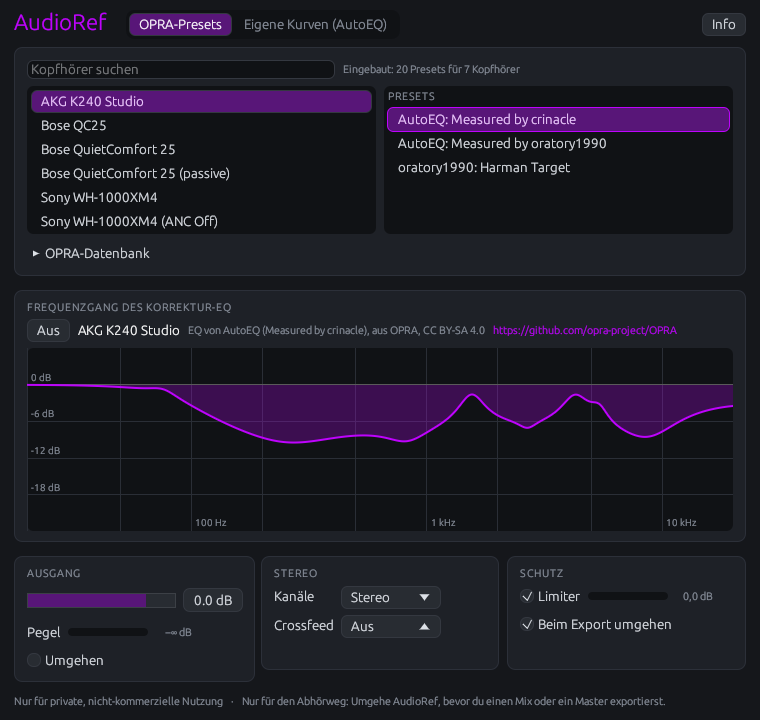
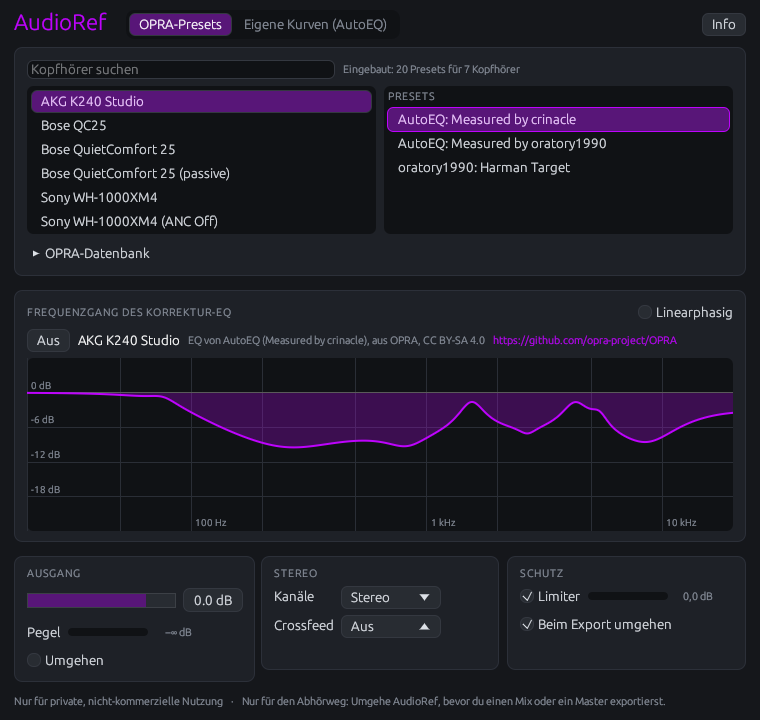
Add a linear-phase mode that reports its latency
A setting, off by default, saved with the project: the background then
makes each correction, a preset or a design, a linear-phase FIR of the
same magnitude. The engine delays every path by the latency, the dry
signal, the flat path and each correction by the latency less its own,
so fades, the bypass and corrections of either phase stay in line. The
plugin reports the latency to the host. The window has the switch at
the top right of the correction's card, with the latency in ms.

Claude-Session: https://claude.ai/code/session_01LTkkJNM9YeBc23r1HKb9qa

diff --git a/crates/audioref-core/src/i18n.rs b/crates/audioref-core/src/i18n.rs
@@ -533,7 +533,7 @@ impl Hint {
                 "Keeps the output at or below −0.3 dBFS, without latency. Its bar shows by how much it lowers the signal: it only moves when the level would go above."
             }
             Self::LinearPhase => {
-                "Corrects without shifting the phase, but delays the sound by about 43 ms. Your DAW makes up for it in playback, not while you monitor a live input. Off: no latency, with the small phase shifts of an analog EQ."
+                "Corrects without shifting the phase, but delays the sound by 43 to 46 ms, depending on the sample rate. Your DAW makes up for it in playback, not while you monitor a live input. Off: no latency, with the small phase shifts of an analog EQ."
             }
             Self::LowerOutput => "Lower the output level",
             Self::MetersOn => {
@@ -602,7 +602,7 @@ impl Hint {
                 "Hält den Ausgang bei höchstens −0,3 dBFS, ohne Latenz. Sein Balken zeigt, um wie viel er das Signal absenkt: Er bewegt sich nur, wenn der Pegel darüber ginge."
             }
             Self::LinearPhase => {
-                "Korrigiert, ohne die Phase zu verschieben, verzögert den Klang aber um etwa 43 ms. Deine DAW gleicht das bei der Wiedergabe aus, nicht beim Abhören eines Live-Eingangs. Aus: keine Latenz, mit den kleinen Phasenverschiebungen eines analogen EQ."
+                "Korrigiert, ohne die Phase zu verschieben, verzögert den Klang aber um 43 bis 46 ms, je nach Abtastrate. Deine DAW gleicht das bei der Wiedergabe aus, nicht beim Abhören eines Live-Eingangs. Aus: keine Latenz, mit den kleinen Phasenverschiebungen eines analogen EQ."
             }
             Self::LowerOutput => "Senke den Ausgang",
             Self::MetersOn => {

diff --git a/crates/audioref-core/src/fir.rs b/crates/audioref-core/src/fir.rs
@@ -10,8 +10,8 @@
 //! [`minimum_phase`] allocates and takes a few milliseconds, so it runs in the background.
 //!
 //! [`linear_phase`] makes the linear-phase filter of any response instead: symmetric around its
-//! middle, so it shifts no phase and delays every frequency by the same [`latency`], about 43 ms
-//! at every sample rate, which the plugin reports to the host.
+//! middle, so it shifts no phase and delays every frequency by the same [`latency`], 43 to 46 ms
+//! depending on the sample rate, which the plugin reports to the host.
 //!
 //! ```
 //! use audioref_core::design::Correction;
@@ -53,7 +53,8 @@ pub fn taps(sample_rate: f64) -> usize {
 }
 
 /// The delay of a linear-phase filter at a sample rate in Hz, in samples: the middle of its
-/// [`taps`], of which it uses all but the last, so it is symmetric around one tap. About 43 ms.
+/// [`taps`], of which it uses all but the last, so it is symmetric around one tap: 43 ms at 48, 96 and 192 kHz, 46 ms at 44.1, 88.2 and
+/// 176.4 kHz.
 #[must_use]
 pub fn latency(sample_rate: f64) -> usize {
     taps(sample_rate) / 2 - 1

diff --git a/docs/ARCHITECTURE.md b/docs/ARCHITECTURE.md
@@ -6,7 +6,7 @@ How AudioRef is built inside: its crates, its threads and the path of the signal
 
 | Crate | Holds | Depends on |
 |---|---|---|
-| `crates/audioref-core` | The logic as plain Rust: the texts (`i18n`), the saved correction (`state`), the signal processing (`engine`, `gain`, the channels and the crossfeed in `stereo`, the `limiter`, the filters in `biquad`, `cascade` and `convolver`, one of them as a `filter`), parametric EQs with the ranges of their values (`eq`), OPRA's database (`opra`) and the presets built in from it (`bundled`), AutoEQ's curves (`autoeq`) and the addresses and name index of its files (`profiles`), the design of a correction from them (`design`) and its minimum-phase filter (`fir`), and what the about window lists of the build (`about`) | No crate with plugin APIs, GUI or I/O; `make lint` checks it |
+| `crates/audioref-core` | The logic as plain Rust: the texts (`i18n`), the saved correction (`state`), the signal processing (`engine`, `gain`, the channels and the crossfeed in `stereo`, the `limiter`, the filters in `biquad`, `cascade` and `convolver`, one of them as a `filter`), parametric EQs with the ranges of their values (`eq`), OPRA's database (`opra`) and the presets built in from it (`bundled`), AutoEQ's curves (`autoeq`) and the addresses and name index of its files (`profiles`), the design of a correction from them (`design`) and its minimum-phase or linear-phase filter (`fir`), the delay lines that keep the paths in line with it (`delay`), and what the about window lists of the build (`about`) | No crate with plugin APIs, GUI or I/O; `make lint` checks it |
 | `crates/audioref` | The plugin: nih-plug, the parameters, the language of the system, the window (`editor`, with egui), reading OPRA's file and designing the corrections in the background (`background`), the saved state, and the about window (`about`, with `build.rs`) | `audioref-core`, nih-plug, nih_plug_egui, rtrb, sys-locale; `audioref-core` for `build.rs` too |
 | `xtask` | The bundler, `cargo xtask bundle audioref --release`, and `cargo xtask fetch-profiles`, which downloads headphone data with curl into a folder outside the repository, see [Fetching the files](../README.md#fetching-the-files) | nih-plug's xtask, `audioref-core` |
 | `fuzz` | The fuzz targets, a workspace of its own, see [fuzz/README.md](../fuzz/README.md) | `audioref-core`, libfuzzer-sys |
@@ -34,7 +34,7 @@ The core can be tested without a host, to 100 % of its lines and functions. The 
 
 ## The signal
 
-Stereo in, stereo out, with a latency of 0 samples. In this order, the parts not built yet marked *planned*:
+Stereo in, stereo out, with a latency of 0 samples, or with linear phase that of the linear-phase filter, see [Linear phase](#linear-phase). In this order, the parts not built yet marked *planned*:
 
 1. The channels as they are, in mono (both at half the level in both ears) or swapped, and the crossfeed, off or in three strengths (`audioref_core::stereo`). The crossfeed follows Bauer's idea, as bs2b does, in a form that leaves the middle alone: a first-order lowpass at 700 Hz of the difference of the channels, taken from the left and added to the right, `L' = L − g·LP(L − R)`, `R' = R + g·LP(L − R)`. What both channels share passes unchanged; below the lowpass each ear hears the other channel 9.5, 6 or 4.5 dB below its own (Jan Meier's, Chu Moy's and bs2b's levels), above it less and less. The lowpass gives the crossfed part a delay of about 0.2 ms, near the time sound takes around the head. As the correction is the same in both channels, it doesn't matter whether this stage comes before or after it. A change of the routing or the strength fades over 20 ms.
 2. Automatic headroom: the overall gain of the correction is lowered by its largest boost between 20 Hz and 20 kHz, on AutoEQ's grid, so it boosts nothing (`audioref_core::cascade`). Most of OPRA's presets bring enough of their own; the most any needs is 5.4 dB.
@@ -43,6 +43,12 @@ Stereo in, stereo out, with a latency of 0 samples. In this order, the parts not
 4. The output level and the bypass, both faded over 20 ms (`audioref_core::engine`), the length adapted to the sample rate.
 5. The limiter (`audioref_core::limiter`), on by default: both channels together stay at or below −0.3 dBFS, the peak of their samples. It has no lookahead, so no latency: when a sample would go above the ceiling, the gain drops at once to just what keeps it there, and comes back with a time constant of 100 ms. Off, it only lets the gain come back, so turning it off doesn't click. The bypass fades to the unprocessed input, around the limiter too.
    The audio thread notes the most it lowered the signal in each block in an atomic of `Shared`, keeping the largest until the window takes it, so no lock is needed. In the same way it notes the peak of the output's samples, after the limiter (`Engine::take_peak`). The window draws itself 30 times a second, holds both values and lets the reduction fall by 10 dB and the level by 20 dB per second. A click on either bar turns both displays off, for slow graphics (`meters`, saved with the project): the window then takes the values without showing them and is only drawn again when egui needs it, e.g. for the pointer.
+
+## Linear phase
+
+With the setting `linear-phase` (`audioref_core::filter::Phase`), the background makes every correction a linear-phase FIR instead (`Filter::of_eq`, `Filter::of_correction`): for a preset of the cascade's response, so the level at each frequency is that of the biquads, for a design of the correction lowered by its headroom. `audioref_core::fir::linear_phase` samples the response on a grid 8 times as fine as the filter, transforms its magnitude back without phase, which gives the zero-phase impulse response, centred on 0, and delays it by its latency, half the taps less one (2047 samples at 48 kHz, 43 ms at 48, 96 and 192 kHz and 46 ms at 44.1, 88.2 and 176.4 kHz), faded out over the outer eighths of both halves. It has as many taps as the minimum-phase filter and runs in the same convolver, so it costs as much; it follows the correction within 0.5 dB from 30 Hz.
+
+The engine delays every path by the latency (`Engine::set_latency`, `audioref_core::delay`): the unchanged signal of the bypass, the signal without a correction, and each correction by the latency less its own. So the fades between corrections, the bypass, and a minimum-phase correction still running while the linear-phase one is designed, all stay in line. The plugin sets the latency in `initialize` and, when the setting changes, at the start of the next block, and reports it to the host (`set_latency_samples`), which makes up for it in playback; the window designs the correction again, in the new phase. Live input is heard late by as much.
 
 ## Headphone data
 
@@ -81,7 +87,7 @@ Hosts that export in real time don't say so, which is why the window also shows 
 - **OPRA presets:** the search for headphones, how many presets the list holds and from where, the headphones and the presets of the chosen ones, and below them OPRA's file in a section that folds away, open while a path is set or a file failed to load. When the window opens, it chooses the headphones of the saved preset again (`Database::product_of`), and searches for their name if the list without a search wouldn't show them.
 - **Own curves (AutoEQ):** the files of a measurement and a target, each read in the background, with its name and number of points or why it can't be used beside it, and the button that makes them the correction.
 
-Below them the current correction: for a preset its author ("EQ by …, from OPRA, CC BY-SA 4.0", and a link to OPRA's repository, as OPRA asks), for a design the names of the measurement and the target and the sliders of the tilt, the bass and the limit for boosts; then the curve from 20 Hz to 20 kHz, taking the height left, with a grid at 2, 5 and 10 times each decade and every 6 dB, the area to 0 dB filled, the headroom beside the label of 0 dB, and under the pointer the level at the nearest frequency (`Message::CurvePoint`); at the bottom the parameters in three cards side by side, output, stereo and protection (the output level, the bypasses, and lists for the channels and the crossfeed, whose names the host shows too, the output's peak level with its bar from −60 to 0 dBFS, the limiter with its bar from 0 to 12 dB), and the notices. The curve follows a slider at once, designed in the window; the filter is designed in the background once the slider is let go, as that takes up to 10 ms. Every control has a hint, shown when the pointer rests on it, and where the window waits for something it says what to do next: to pick headphones, to load both curves before using them, or to lower the output level when the limiter lowers the signal by 3 dB or more (`audioref_core::i18n::Hint`). The window only reads and shows; the search, the texts and the curve's values come from the core.
+At the top right of the correction's card, the switch **Linear phase**, with the latency while it is on, see [Linear phase](#linear-phase). Below the tabs the current correction: for a preset its author ("EQ by …, from OPRA, CC BY-SA 4.0", and a link to OPRA's repository, as OPRA asks), for a design the names of the measurement and the target and the sliders of the tilt, the bass and the limit for boosts; then the curve from 20 Hz to 20 kHz, taking the height left, with a grid at 2, 5 and 10 times each decade and every 6 dB, the area to 0 dB filled, the headroom beside the label of 0 dB, and under the pointer the level at the nearest frequency (`Message::CurvePoint`); at the bottom the parameters in three cards side by side, output, stereo and protection (the output level, the bypasses, and lists for the channels and the crossfeed, whose names the host shows too, the output's peak level with its bar from −60 to 0 dBFS, the limiter with its bar from 0 to 12 dB), and the notices. The curve follows a slider at once, designed in the window; the filter is designed in the background once the slider is let go, as that takes up to 10 ms. Every control has a hint, shown when the pointer rests on it, and where the window waits for something it says what to do next: to pick headphones, to load both curves before using them, or to lower the output level when the limiter lowers the signal by 3 dB or more (`audioref_core::i18n::Hint`). The window only reads and shows; the search, the texts and the curve's values come from the core.
 
 The name "AudioRef" at the top left and the button at the top right open the about window (`crates/audioref/src/about.rs`): the version, the git commit and the time of the build, the contact, the homepage, AudioRef's license and that of the built-in presets, "Written in Rust", and the crates AudioRef is built with, each with its license and, opened, its license texts. `crates/audioref/build.rs` collects them when the plugin is built:
 
@@ -103,6 +109,7 @@ The project saves, besides the parameters:
 - `design`: a correction designed from a measurement and a target (`audioref_core::state::SavedDesign`): their names, both curves on AutoEQ's grid, and the tilt, the bass and the limit for boosts, so a project opens with its correction without the files and the settings can still change. If there is one, it is the correction, not the preset; choosing a preset removes it, and using a design removes the preset. The fuzz target `saved_design` reads it.
 - `measurement-path`, `target-path`: the paths of the files of the measurement and the target, for the window's fields.
 - `meters`: whether the window shows the level and the limiter's reduction; on unless turned off by a click on a bar.
+- `linear-phase`: whether the corrections are linear-phase, off by default, see [Linear phase](#linear-phase). A setting, not a parameter, so hosts don't automate the latency.
 - `editor-state`: the size of the window.
 
 Parameter IDs and these keys never change; the names of the parameters and of the choices of `channels` and `crossfeed` are in the system's language, and hosts that let users type a value take a name in either language or its index.

diff --git a/docs/DEVELOPMENT.md b/docs/DEVELOPMENT.md
@@ -45,10 +45,10 @@ Every new parser of input from outside gets a target, with a smoke test in the c
 
 ## Screenshots
 
-`make screenshots` takes pictures of the window without a DAW and without a graphics card, on Linux: `en-built-in.png` (the built-in presets), `en-correction.png` (one of them chosen), `en-file.png` (a preset of a loaded file), `en-curves.png` (a correction designed from a measurement and a target), `en-hint.png` (the hint of the crossfeed, with the pointer resting on it), `en-about.png` (the about window, with the license of a crate opened) and the same in German, in `target/screenshots`. Install what it needs once with `utils/install-linux-deps.sh --screenshots`. It works in CI and in the cloud sandbox of Claude Code alike.
+`make screenshots` takes pictures of the window without a DAW and without a graphics card, on Linux: `en-built-in.png` (the built-in presets), `en-correction.png` (one of them chosen), `en-file.png` (a preset of a loaded file), `en-curves.png` (a correction designed from a measurement and a target, with linear phase on), `en-hint.png` (the hint of the crossfeed, with the pointer resting on it), `en-about.png` (the about window, with the license of a crate opened) and the same in German, in `target/screenshots`. Install what it needs once with `utils/install-linux-deps.sh --screenshots`. It works in CI and in the cloud sandbox of Claude Code alike.
 
 - `screenshots/` holds AudioRef as a standalone program, with nih-plug's host for standalone plugins (`nih_export_standalone`), in a workspace and with a `Cargo.lock` of its own, like `fuzz/`, so the plugin's dependencies stay free of its audio backends. It runs with `--backend dummy`, without sound.
-- `utils/screenshots.sh` starts it on Xvfb, a virtual X server, where Mesa's llvmpipe draws the OpenGL. xdotool clicks the first built-in headphones and their first preset, then opens the section of OPRA's database, types the path of `screenshots/demo_database.jsonl`, a small synthetic database in OPRA's format, clicks Load, the first headphones and their first preset again, then opens the tab of the own curves, loads `screenshots/demo_measurement.csv` and `screenshots/demo_target.csv`, synthetic curves in AutoEQ's format, and uses them as the correction, rests the pointer on the list of the crossfeed, and at last opens the about window and the license of its first crate; ImageMagick's `import` takes the pictures, each once the window isn't black any more: on a slow machine, as in CI, Mesa compiles its shaders for the first frames, and until then the window stays black. The script fails if it stays black for 60 seconds. The language follows the locale it sets.
+- `utils/screenshots.sh` starts it on Xvfb, a virtual X server, where Mesa's llvmpipe draws the OpenGL. xdotool clicks the first built-in headphones and their first preset, then opens the section of OPRA's database, types the path of `screenshots/demo_database.jsonl`, a small synthetic database in OPRA's format, clicks Load, the first headphones and their first preset again, then opens the tab of the own curves, loads `screenshots/demo_measurement.csv` and `screenshots/demo_target.csv`, synthetic curves in AutoEQ's format, and uses them as the correction, turns on linear phase, rests the pointer on the list of the crossfeed, and at last opens the about window and the license of its first crate; ImageMagick's `import` takes the pictures, each once the window isn't black any more: on a slow machine, as in CI, Mesa compiles its shaders for the first frames, and until then the window stays black. The script fails if it stays black for 60 seconds. The language follows the locale it sets.
 - nih-plug's window asks for a framebuffer with sRGB, which Mesa's software rendering doesn't offer under Xvfb, so the window wouldn't open ("Could not fetch framebuffer config"). The script copies nih-plug, at the commit `Cargo.toml` pins, to `screenshots/target/nih-plug`, asks for a framebuffer without sRGB there, and `screenshots/Cargo.toml` patches nih-plug with the copy. egui turns the sRGB conversion off anyway, so the window looks the same as in a DAW. The plugin itself is built with nih-plug unchanged.
 - The clicks go to fixed points of the window (at the top of the script). When the layout in `crates/audioref/src/editor.rs` changes, check that the pictures still show a chosen preset, and move the points.
 - When the plugin's dependencies change, Cargo updates `screenshots/Cargo.lock` to match: commit that change too.

diff --git a/README.md b/README.md
@@ -56,7 +56,11 @@ Instead of a preset, AudioRef can compute the correction from a measurement of y
 2. Click **Use as correction**. AudioRef smooths the difference, so narrow dips of one measurement aren't copied, corrects nothing above 16 kHz, and lowers its level by its largest boost, so nothing gets louder.
 3. Adjust it to your taste: **Tilt** (−1 to +1 dB per octave around 1 kHz, darker or brighter), **Bass** (−6 to +12 dB below about 100 Hz) and **Max. boost** (0 to 12 dB, 6 dB by default: how much it may lift frequencies your headphones lack). The curve follows at once, the sound when you let go of the slider.
 
-The project saves both curves and the settings, so it opens with the same correction without the files. Choosing a preset replaces it. The correction adds no latency.
+The project saves both curves and the settings, so it opens with the same correction without the files. Choosing a preset replaces it. The correction adds no latency, unless you turn on **Linear phase**.
+
+### Linear phase
+
+**Linear phase**, at the top right of the frequency response, runs the correction, a preset or your own curves, as a linear-phase filter: the level at each frequency stays the same, but the phase doesn't shift where the level changes, so transients keep their shape. In exchange it delays the sound by 43 to 46 ms, depending on the sample rate; the window shows how much. AudioRef tells your DAW, which makes up for it in playback, so the tracks stay in time; while you monitor a live input, e.g. when recording, you hear the delay. Off, the default, the correction has no latency and shifts the phase a little, as an analog EQ does. The project saves the choice.
 
 ### Fetching the files
 

diff --git a/CHANGELOG.md b/CHANGELOG.md
@@ -16,6 +16,7 @@ All changes users of AudioRef can notice are listed here. The format follows [Ke
 - Parameter names in English and German, in the language of the operating system.
 - "Bypass on export", on by default: AudioRef, the VST3 and the CLAP version alike, bypasses itself while the host exports offline, so the headphone correction doesn't end up in a mix. Hosts that export in real time don't tell the plugin: bypass AudioRef by hand there.
 - Your own measurement and target: in the tab "Own curves (AutoEQ)", load a measurement of your headphones and a target curve as CSV files, e.g. from AutoEQ's repository, which you download yourself, and use them as the correction, see [Your own measurement and target](README.md#your-own-measurement-and-target). AudioRef smooths it, corrects nothing above 16 kHz, limits boosts and runs it as a minimum-phase filter without latency.
+- **Linear phase**, off by default: the correction, a preset or your own curves, runs without shifting the phase, and delays the sound by 43 to 46 ms, which AudioRef reports to the DAW, so it makes up for it in playback. Turned on and off at the top right of the frequency response; the project saves the choice, see [Linear phase](README.md#linear-phase).
 - Tilt, bass and the limit for boosts, to adjust a correction from your own curves to your taste. The project saves both curves and the settings, so it opens without the files.
 - Mono and swapped channels, under **Channels**: to check a mix in mono, or which side is which.
 - Crossfeed in three strengths, off by default: each ear hears some of the other channel's bass, as from speakers, so wide mixes tire less on headphones. What both channels share stays as it is.

diff --git a/docs/PLAN.md b/docs/PLAN.md
@@ -81,4 +81,4 @@ Each milestone ends with bundles from CI.
 2. **First correction:** import of OPRA presets, a cascade of biquads, automatic headroom, the render guard (bypass while the host exports offline, checked in Bitwig and FL Studio), and a first window: choosing headphones and mode, the curve, the notice "Private, non-commercial use only".
 3. **Own targets:** import of AutoEQ's CSV files and targets (and asking oratory1990 whether AudioRef may ship his measurements of the three headphones; until he agrees, users import them), smoothing, a limit for boosts, a minimum-phase FIR with zero-latency convolution, tilt and bass controls.
 4. **Comfort:** crossfeed, mono and swapped channels, a limiter with its display, hints in context, `cargo xtask fetch-profiles`.
-5. **Later, maybe:** a linear-phase mode that reports its latency, targets that imitate other speakers (translation check), speaker simulation with BRIRs from SOFA files.
+5. **Later, maybe:** a linear-phase mode that reports its latency (done, see Linear phase in [ARCHITECTURE.md](ARCHITECTURE.md#linear-phase)), targets that imitate other speakers (translation check), speaker simulation with BRIRs from SOFA files.
